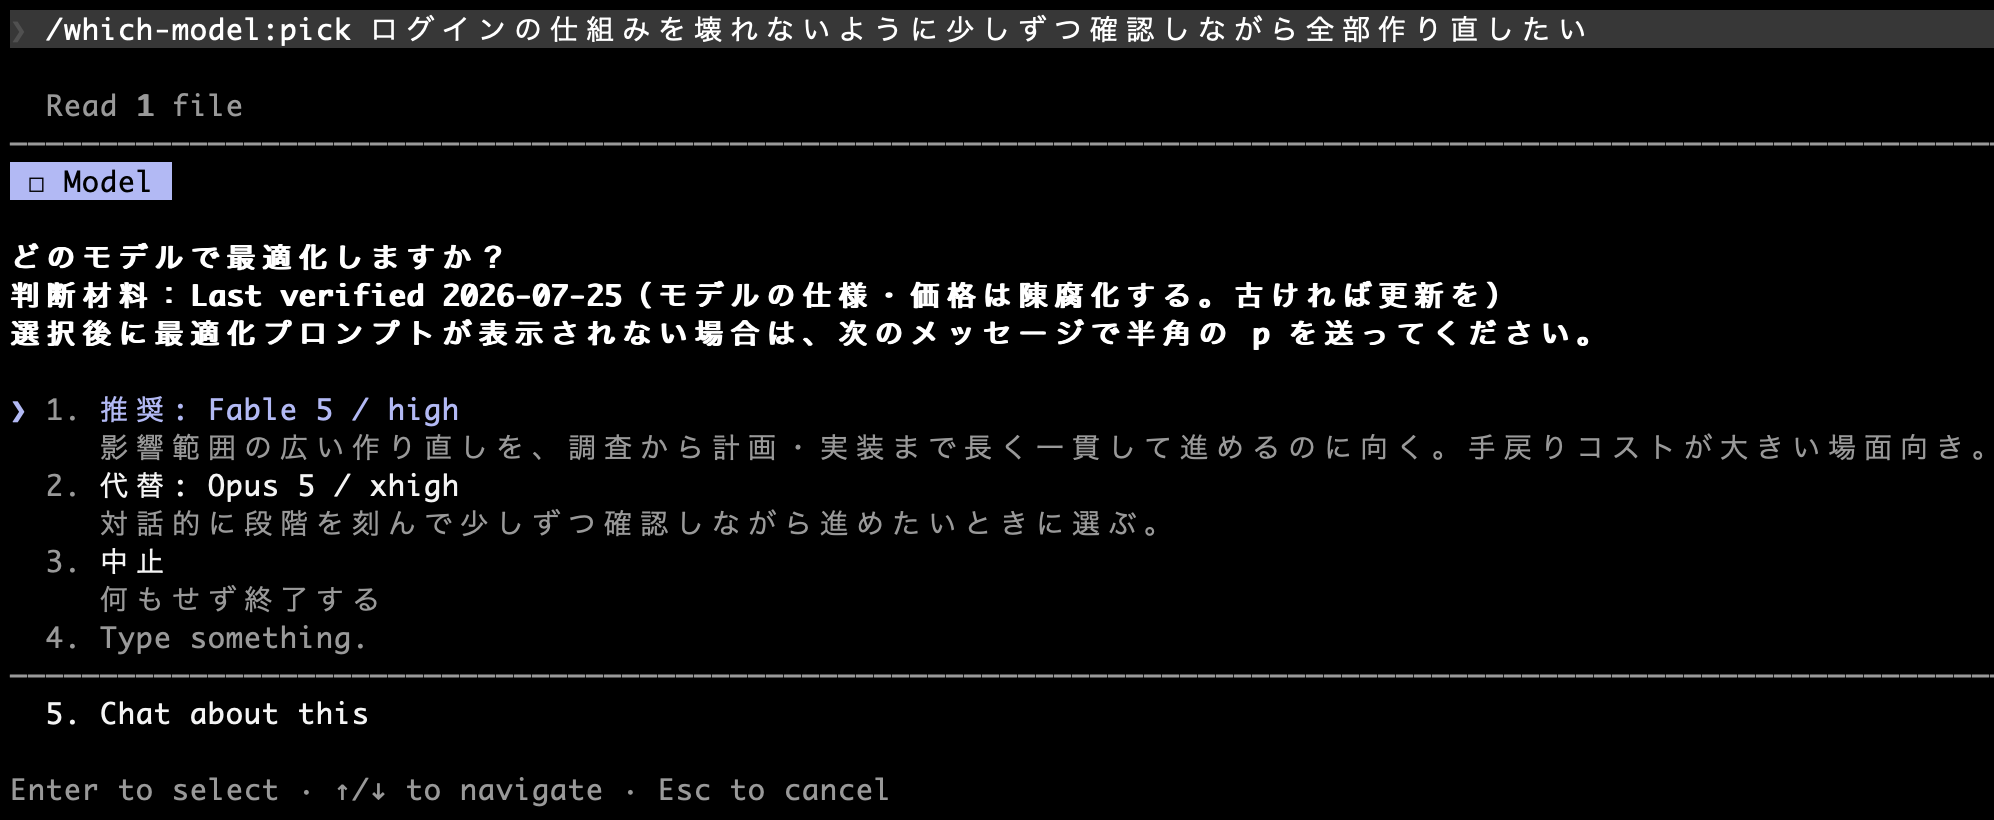
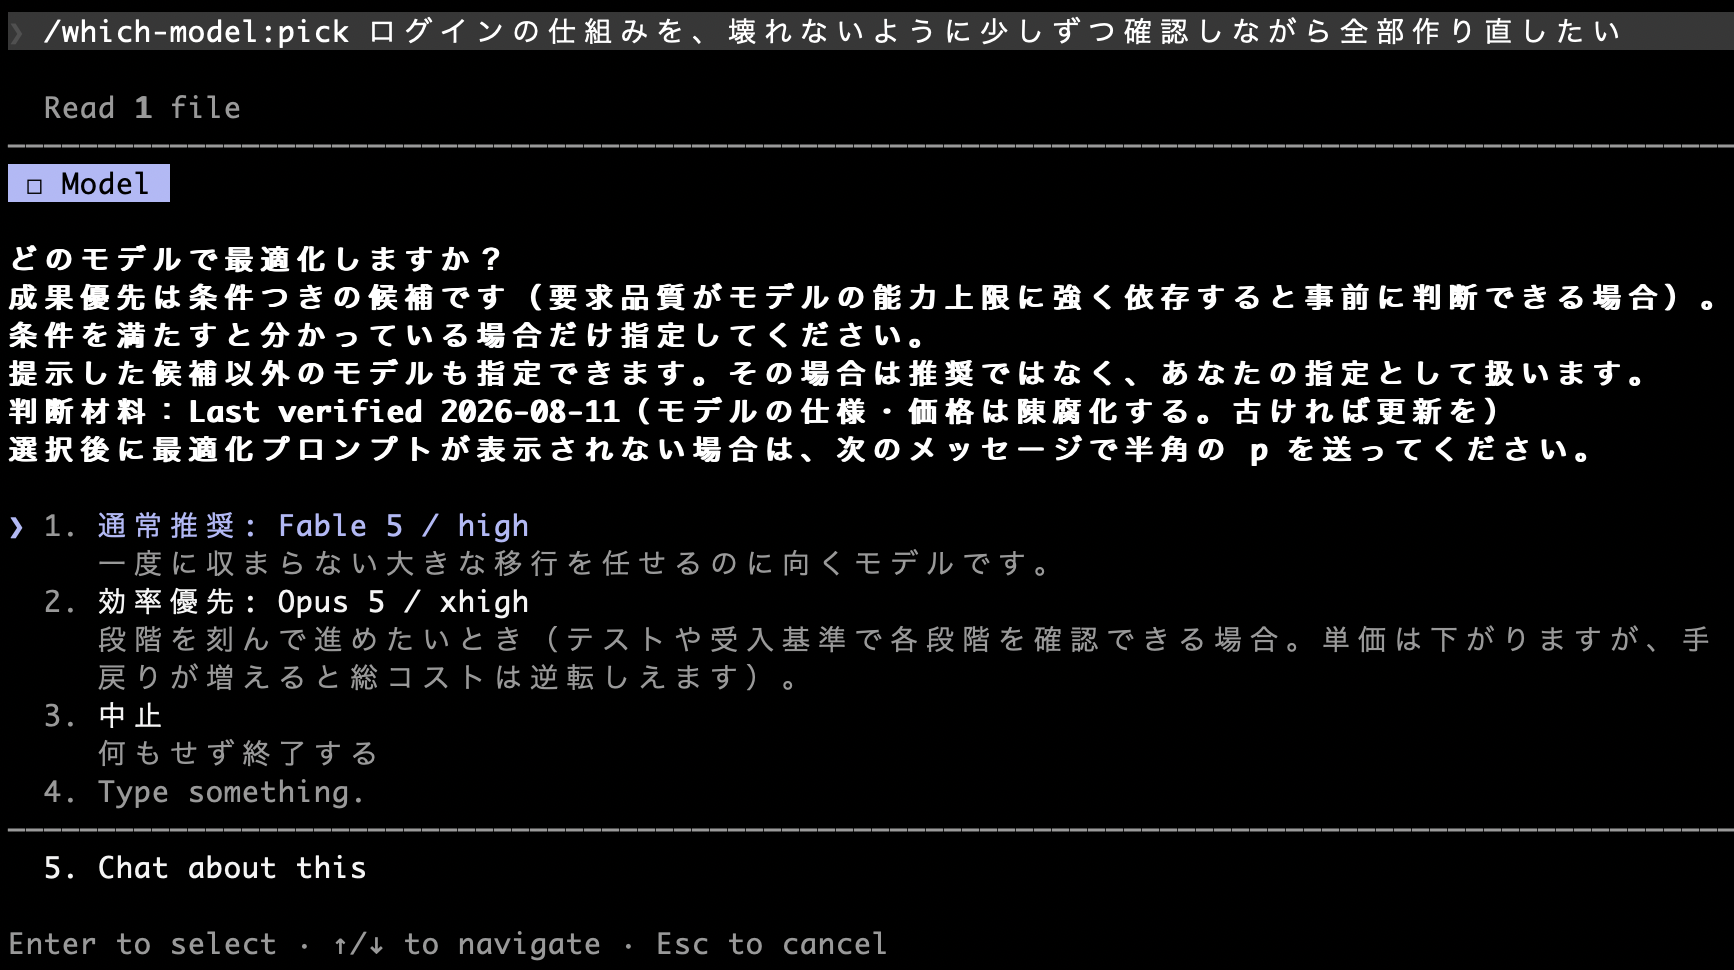
docs: 7.0.0 の README・デモ画像・変更履歴・受入条件を更新
README のデモ画像を 7.0.0 の選択UI へ差し替え、見出しと alt テキストを実物に
合わせて書き直した。新しい画像では効率優先が条件を満たして候補に出る一方、
成果優先は条件を判定できないため候補にならず質問文で説明される。alt には
写っているものだけを書いている。

CHANGELOG は 7.0.0 の変更を記載したが、見出しは `[Unreleased]` のままにした。
version を上げるのとリリース日を確定させるのは別の判断であり、未リリースの
日付を書くと嘘になる。リリース時に `## [7.0.0] - <実際のリリース日>` へ確定させる。

回帰検査 README に 7.0.0 の受入条件 7a〜7k を追加した。旧 15・15b は
`p opus` が案内され受理されることを要求しており、`p opus` を受理しないことを
求める 7i と正面から矛盾する。同じ文書が受理と拒否を同時に要求すると次に測る人が
判断できないため、15・15b を差し替え対象へ移し、新文法での確認を 7j・7k として
立て直した。

7j に `p quality` / `p efficiency` を要求していないのは意図的である。初回案内に
何を列挙するかは SKILL.md が規定しておらず、実測で 3 回中 1 回は両者を含まない
短い案内が出た。規定していない挙動を合否条件に書くと満たせない条件を置くことに
なるため、未決として明記するに留めた。

Changed region(s): [[0.0, 0.0915, 1.0, 0.9146], [0.0, 0.0, 1.0, 0.061], [0.0, 0.9451, 0.4983, 1.0]]

diff --git a/CHANGELOG.md b/CHANGELOG.md
@@ -5,6 +5,94 @@
 
 3.8.0 以前の変更は `git log` を参照してください。
 
+## [Unreleased] — 7.0.0 予定
+
+> **まだリリースしていません。** リリース時にこの見出しを `## [7.0.0] - <実際のリリース日>` へ
+> 確定させます（`plugin.json` と `SKILL.md` の `metadata.version` は先に 7.0.0 へ上げてあります）。
+
+**判断表の「第二候補」列を廃止し、候補を目的別の3プロファイル（通常推奨・成果優先・効率優先）へ
+再構成しました**（**破壊的変更**）。あわせてタスク行を 13 → 16 に分割し、headless の確定合図を
+変更しています。**裏付けの無い組み合わせには候補を出さない**のが 7.0.0 の中心的な性質です。
+
+判定の作り方も変えました。Fable 5 と Codex に、**固定した根拠台帳（117件）だけ**を渡して
+**16行 × 2プロファイル ＝ 32セル**を独立に監査させ、**1件ずつ人が裁定**しています。両者が一致した
+セルも自動採用していません（実際に、両者が同じ読み落としをしていた2件を退けました）。
+
+### Breaking
+
+- **第二候補列を廃止しました。** 現行13行の第二候補のうち、**8件は今回の監査で「退けた候補」か
+  「根拠が見つからない候補」**でした。残せば、根拠が無いと結論した組み合わせをそのまま提示する
+  ことになるため、列ごと廃止し、根拠のあるものだけを3プロファイルへ吸収しています。
+  - 提示の意味が変わります：**「代替」は無くなり**、目的（成果を優先するか、効率を優先するか）で
+    候補が決まります。6.0.0 までの「代替＝別条件での候補」を前提にした使い方はできません。
+- **タスク行を 13 → 16 に分割しました。** 旧「短い調査・要約・単純な質問」の1行を、
+  **単純な質問／要約／短い調査／定型的な分類**の4行に分けています（分類タスクに固有の公式根拠が
+  実在するため）。行の境界は判断表に明記しました。
+- **headless の確定合図を変更しました。** `p` / `p normal`（通常推奨）・`p quality`（成果優先）・
+  `p efficiency`（効率優先）・`p model <モデル> [<effort>]`（直接指定）・`n`。
+  **旧 `p opus` / `p fable` / `p sonnet` は廃止**し、送ると書き方の案内を返します
+  （6.0.0 の旧 `y` と同じ扱い）。effort は `low`〜`xhigh` のみ受理し、`max` は受理しません。
+
+### Added
+
+- **成果優先・効率優先のプロファイル**。成果優先はコストと待ち時間を評価から外し、効率優先は
+  必要品質を保てる根拠がある範囲で総コストと所要時間を抑えます。選択肢は最大4つ
+  （通常推奨／成果優先／効率優先／中止）です。
+- **条件つきの候補**（6セル）。条件が成立するときだけ提示し、**成立しなければ通常推奨へ畳んで確定**
+  （選び直しを求めません）、**判定できなければ候補を出さず条件を説明**します。
+- **「根拠なし」の明示**（9セル）。差も同一性も裏付けられないセルには候補を作らず、その旨を表示
+  します。「差の証拠が無い」と「差が無い証拠がある」を区別するためで、**候補を推測で埋めません**。
+- 判断表に、各セルの**表示文・根拠 S-id・Confidence・留保**、および `—` としたセルの**探索範囲**を
+  行ごとに記載しました。`SKILL.md` は説明文をここから取得します（文言を二重管理しません）。
+
+### Changed
+
+- **通常推奨のモデル×effort は、16行中1行だけ変えました**：**短い調査を `Sonnet 5 / low` →
+  `Sonnet 5 / medium`** へ。この行は外部情報の検索・比較・出典付き統合を伴うと定義したため、
+  公式が low の用例として挙げる範囲（`quick lookups`・`simple classification tasks`）より重いためです。
+- **分岐D（Opus 5 の低 effort 活用）を通常推奨から削除**し、**効率優先のコードレビュー**へ
+  条件つき候補として移設しました。コスト・速度を目的とする分岐を通常推奨に埋めたままだと、
+  3プロファイルすべてに漏れ出すためです。利用者に見える変化は「**通常推奨から low が消え、
+  効率優先を選んだときにだけ条件つきで出る**」ことです。
+- **コードレビュー（大規模・独立監査）の効率側候補を `Opus 5 / xhigh` → `Opus 5 / high`** に
+  改めました。従来は xhigh を選びながら「低い effort でも精度が保たれる」と説明しており、
+  根拠と候補が噛み合っていませんでした。
+- **UI/UX の Sonnet 5、長時間・自律実行の Opus 5 など、根拠を確認できなかった候補を取り下げました。**
+  取り下げた理由は判断表に「探索範囲」として記録してあります。
+- **`Other`（自由入力）で提示外のモデルを指定した場合は、ユーザーによる明示的な上書きとして扱い、
+  推奨する根拠を作文しません。** 本体構文は `model <モデル> [<effort>]` で、headless の
+  `p model …` と同じです。
+
+### Fixed
+
+- 選択肢の説明文に内部用語（`S<数字>`・分岐名・条件名）が混じる経路を塞ぎました。説明文の取得元を
+  判断表の「表示文」欄だけに限定し、自分で書き足す案内文も禁止対象に含めています
+  （検証中に実際に2件見つけたための修正です）。
+
+### 根拠台帳（`01_sources_evidence.md`）
+
+判断表を直す前に、**台帳そのものを全件監査して更新しました**（コミット `84d6768`）。
+
+- **公式20ページを1回だけ取得して共通の生テキストに保存**し、その保存物に対して Fable 5 と Codex が
+  独立に、**既存102件（Active 99 / Retired 3）を全件照合**し、**台帳に無い新規主張を探索**しました。
+  候補は和集合で集め、**1件ずつ人が検証・承認**しています（自動昇格はしていません）。
+- **S107〜S121 の15件を新設**しました（efficiency-first / capability-first の2方式、
+  上げ下げヒューリスティック、総コストの逆転、レビュー・デバッグの recall、first-shot correctness、
+  vision、指示追従、トークナイザ世代、知識カットオフ、稀な早期停止、モデル変更時の履歴再読、
+  effort 変更とキャッシュ prefix、xhigh の典型用途 など）。**Active 114 ＋ Retired 3 ＝ 117件**。
+- **既存10件を修正**しました（S2・S8・S11・S18・S50・S65・S75・S79・S83・S101）。主なものは
+  **S8：「エラーで拒否」→ Fable 5 / Mythos 5 では 400 error**、**S83：vision 項の拡張**、
+  **S75：Opus 4.8 からの移行でも high から再評価**、**S79：常設許可 → current session only**。
+- **この版を `84d6768` で固定し、判断表の監査（32セル）はこの版だけを根拠にしています。**
+  監査の途中で台帳が動くと、Fable と Codex が別の版を読むことになり、不一致が「解釈の違い」なのか
+  「読んだ版の違い」なのか判別できなくなるためです。**3軸化の作業では台帳を変更していません。**
+
+### 変更していないもの
+
+- `p`（表示）／`g`（実行・一度だけ有効）の合図、長文入力の `p` 待ち、実行権の扱い、
+  モデルを自動で切り替えない設計は 6.0.0 のままです。
+- モデルの選定対象（Fable 5 / Opus 5 / Sonnet 5）と、Haiku 4.5 を対象外とする方針。
+
 ## [6.0.0] - 2026-08-11
 
 候補の提示を選択UI（`AskUserQuestion`）に変え、合図を `p`（表示）と `g`（実行）に分けました

diff --git a/tests/regression/README.md b/tests/regression/README.md
@@ -234,6 +234,79 @@ Claude Code 2.1.212、`--model sonnet`、空ディレクトリで `/which-model:
 - 対話ターミナルでは 9,621 文字でも再現しなかった。VS Code 拡張 2.1.226 / 2.1.227 で再現。
 - **`SKILL.md` の閾値 32 行は実測値ではなく、実測境界からの外挿である**（下記文書の「閾値の導出」）。
 
+### 7.0.0 の受入条件（3プロファイル化）
+
+7.0.0 で判断表の第二候補列が廃止され、**通常推奨・成果優先・効率優先**の3プロファイルになった。
+タスク行は 13 → 16 に増え、分岐D は効率優先の条件へ移設された。
+
+**上の 6.0.0 表のうち、次の6行はここで置き換わる（6.0.0 の記録としては残す）。**
+
+| 6.0.0 の行 | 置き換わる理由 |
+| --- | --- |
+| 5（推奨・代替・中止の3つ） | 選択肢は**最大4つ**（通常推奨／成果優先／効率優先／中止）になった |
+| 5b（代替が高能力側へ振れる行） | 「代替」という概念が無くなった。**成果優先**が高能力側を担う |
+| 5c（代替が低コスト側へ振れる行） | 同上。**効率優先**が低コスト側を担う |
+| 12i（内部用語 `第一候補` 等） | 禁止語が変わった（下の 7f を使う） |
+| 15（初回案内に `p opus` が出る） | 縮退経路の合図が変わった。**旧 `p opus` は廃止**（下の 7j を使う） |
+| 15b（`p opus` が受理される） | 同上。**直接指定は `p model <モデル> [<effort>]`**（下の 7k を使う）。旧形式を受理しないことは 7i が見る |
+
+> **15・15b を残したままにしない。** 7i が「`p opus` を受理しないこと」を求めるのに対し、
+> 15・15b は「`p opus` が案内され、受理されること」を求める。同じ文書が受理と拒否を同時に
+> 要求すると、次に測る人がどちらを正とすべきか判断できない。
+
+#### 受入条件（対話環境・headless）
+
+対話環境は `claude --plugin-dir ./plugins/which-model` で起動する。
+**6.0.0 表の 1〜4・6〜14b・15c・16 はそのまま有効。**
+
+| # | 条件 | 見るところ |
+| --- | --- | --- |
+| 7a | `同じ` のプロファイルは選択肢にせず、質問文に理由が出る | `/which-model:pick 新しい社内ツールのアーキテクチャを設計したい`。「成果優先でも候補は変わりません」が質問文に出て、選択肢には無いこと |
+| 7b | `—` のプロファイルは**候補を作らない** | 同上。「効率優先は、推奨との差を裏付ける評価がないため提示していません」が出て、モデル名が出ないこと |
+| 7c | 条件成立で条件つき候補が選択肢に出る | `/which-model:pick この PR をレビューして。レビュー品質は自前の評価セットで precision と recall を確認済みで、低い effort でも落ちないことが分かっている`。`効率優先: Opus 5 / low` が選択肢に出ること |
+| 7d | 条件不成立は通常推奨へ畳み、選び直しを求めない | `…自前評価はまだ用意できていない` を足す。「条件を満たさないため通常推奨に畳みました」が出て、効率優先が選択肢に無いこと |
+| 7e | 条件判定不能は候補を出さず、条件を説明する | `/which-model:pick この PR をレビューして`（条件に触れない）。「条件つきの候補です（…）」が出て、効率優先が選択肢に無いこと |
+| 7f | 選択肢は最大4つ、内部用語が出ない | `/which-model:pick 認証まわりを全面的に作り直したい。要求品質がモデル能力の上限に強く依存する案件で、かつテストと受入基準で各段階を確認しながら段階的に進める`。通常推奨／成果優先／効率優先／中止の4つ（＋自動追加の `Other`）で、`S<数字>`・`分岐A/B/C`・`条件1〜4`・`判断表`・`根拠内訳` が一切出ないこと |
+| 7g | 留保が削られていない | 7f の効率優先の説明に「手戻りが増えると総コストは逆転しえます」が残ること。7c の効率優先に「どのレビューで保てるかは自前の評価で確認が必要」が残ること |
+| 7h | `Other` の未提示モデルは上書き扱いで、推奨根拠を作文しない | 7a の行で `Other` に `model sonnet low`。受理しつつ「推奨」とは言わないこと |
+| 7i | 旧 `p opus` を受理しない | 縮退経路で `p opus`。`p model opus` のように書く旨の案内1行で止まること |
+| 7j（旧 15） | 縮退経路の初回出力に新文法が出る | `claude -p "/which-model:pick <依頼>"`。候補と `p` / `p model <モデル> [<effort>]` / `n` の案内が出ること |
+| 7k（旧 15b） | 縮退経路で `p model <モデル> [<effort>]` が受理される | 固定 `--session-id` で 7j を実行 → `--resume <id>` で `p model opus high` を送る。フェーズ1へ戻らず、長文でも `p` を二度求めずに表示まで進むこと |
+
+**7a〜7h は対話環境で行う。7i・7j・7k は縮退経路の確認なので headless（`claude -p`）で行う**
+（対話環境では選択UIが出るため縮退経路に入らない）。
+
+> **7j に `p quality` / `p efficiency` を要求していないのは意図的である。** 初回案内に何を列挙するかは
+> 現行の `SKILL.md` が規定しておらず、**2026-08-13 の実測で 3 回中 1 回**、両者を含まない短い
+> 案内が出た。**規定していない挙動を合否条件に書くと、満たせない条件を
+> 置くことになる**——15・15b で起きたのと同じ型の欠陥である。案内リストを `SKILL.md` 側で
+> 固定してから 7j に加えること。**7.0.0 時点では未決として残す。**
+
+#### headless 測定（2026-08-12）
+
+| 項目 | 値 |
+| --- | --- |
+| モデル | `--model sonnet`（ベースラインと揃える） |
+| 実行形態 | `claude --plugin-dir <リポジトリ>/plugins/which-model -p`（空ディレクトリ・新規セッション） |
+| 経路 | **縮退経路**（headless では `AskUserQuestion` が提供されない）。候補生成の判定だけを見ている |
+
+7a〜7g に対応する6ケースを1回ずつ実行し、**6/6 で意図どおりの分類**（`同じ`・`—`・条件成立・
+条件不成立・条件判定不能・4択）になった。留保も削られていなかった。
+
+**このとき2件の欠陥を見つけ、`SKILL.md` を直した。**
+
+1. **案内文への内部用語の漏れ。** 条件不成立ケースで、自分で書き足した `p model` の案内に
+   「判断表」が出た。→ 禁止範囲を「選択肢の説明文・質問文・**案内文**」へ広げ、直接指定の
+   案内文を固定文言にした。
+2. **説明文の取得元の取り違え（重い方）。** 条件判定不能ケースの再実行で、通常推奨の説明に
+   一覧表の**「指示の型」欄**（`S93`・`分岐 C`・`条件 3` を含む）を使った。同じケースの初回は
+   正しく表示文を使っており、**確率的に外れる**。→ 取得元を「表示文の3か所だけ。指示の型欄は
+   フェーズ2用で使わない」と明記し、**`S<数字>`・分岐名・条件名が説明文に入っていたら読む欄を
+   間違えている**という自己検査を足した。修正後に同ケースを3回実行し、3回とも漏れなし。
+
+**この試行数では成功率を推定できない**（`6/6`・`3/3` として記録し、率で書かない）。
+選択UI 経路（対話環境）は headless では測れないので、7a〜7h の手動受入は別途行うこと。
+
 ### v4.1.0候補の測定（2026-07-20）
 
 effort ガイダンス監査（判断表の第一/第二 effort 分離・S7→S71〜S80）を反映した作業ツリー版の測定。
